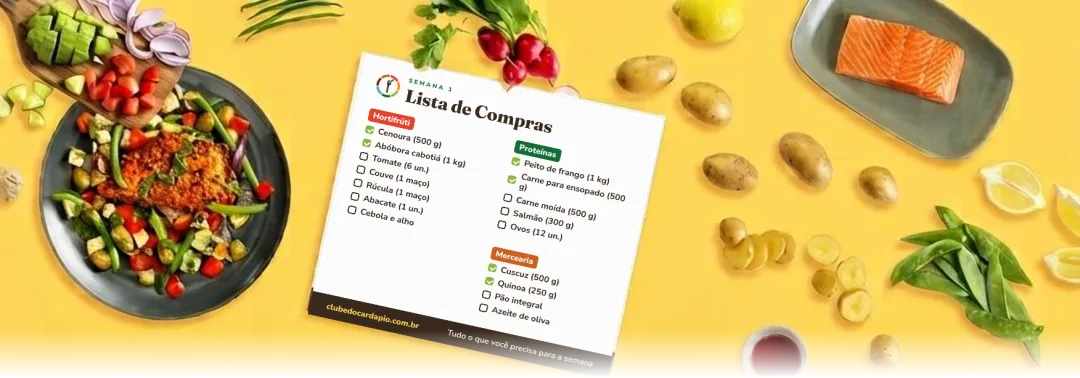
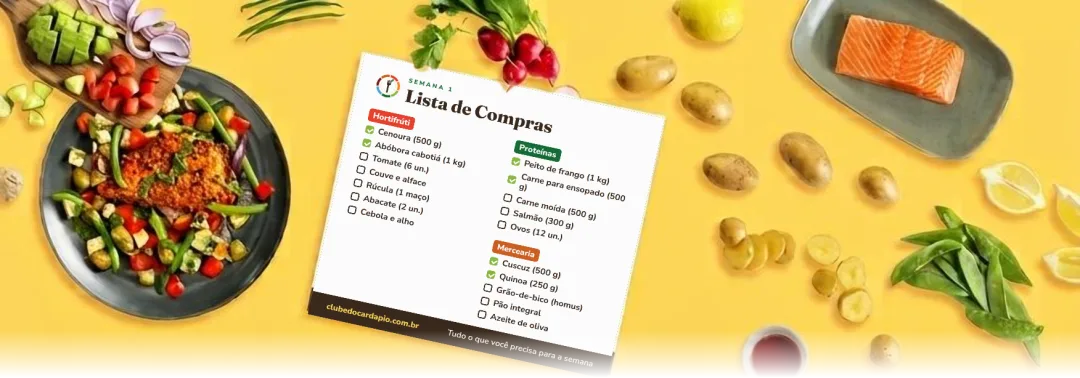
Tablet do HERO com foto também nos jantares
- Cada dia mostra agora duas fotos reais (almoço e jantar), 14 no total.
- Jantares ajustados aos pratos das fotos disponíveis; lista de compras
  atualizada.
- HERO, faixas mobile, og-image e modelos de Instagram regenerados.

Claude-Session: https://claude.ai/code/session_011dvyRhPNz3FX2TnzhsmVBS

Changed region(s): [[0.4278, 0.6402, 0.55, 0.873], [0.3667, 0.4656, 0.3972, 0.4947]]

diff --git a/images/pratos/LEIA-ME.md b/images/pratos/LEIA-ME.md
@@ -3,6 +3,7 @@
 Recortes quadrados usados no mockup do tablet (`images/mockups/tablet-cardapio-semana.png`).
 
 - `ter-cuscuz-couve`, `qua-almondegas-rucula`, `qui-ensopado`, `sab-bowl-salmao`, `dom-prato-ovo-abacate`: fotos do Unsplash enviadas pela equipe (licença Unsplash: uso comercial livre, sem necessidade de crédito).
-- `seg-frango-legumes`, `sex-quinoa-legumes`: recortes da própria imagem do HERO.
+- `seg-frango-legumes`, `sex-quinoa-legumes`, `j-dom-salada-frango`: recortes da própria imagem do HERO.
+- `j-*` (jantares): `j-seg-salada-torradinhas`, `j-ter-torrada-abacate`, `j-qua-bruschetta-tomate`, `j-qui-homus`, `j-sex-torrada-ovo`, `j-sab-ovos-queijo-frutas`: fotos do Unsplash enviadas pela equipe.
 
 Substituir por fotos reais das preparações da Rita quando estiverem disponíveis (item 18 do Memorial).
